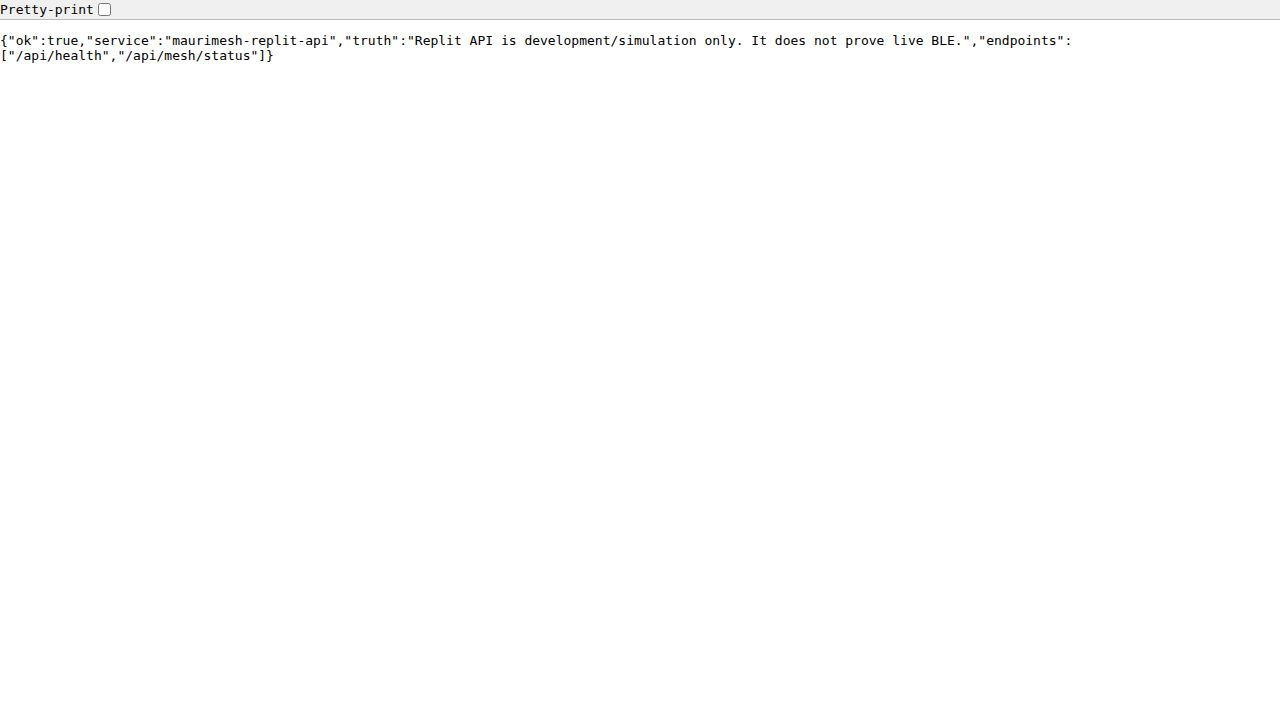
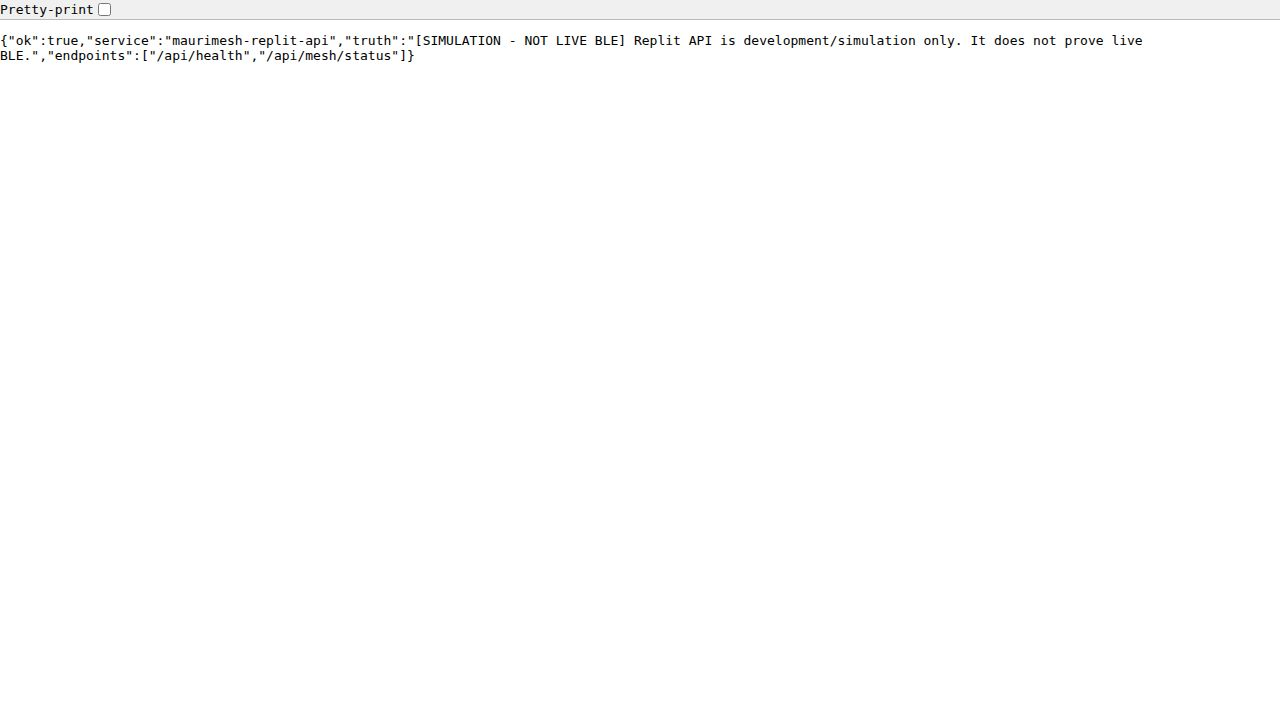
Make routing engine self-healing/traffic thresholds tunable (Task #269)
Original task: the six constants governing self-healing and traffic control
(trust block threshold, quarantine cooldown, rehab trust, congestion window,
congestion penalty per packet, max congestion penalty) were hardcoded. Make
them configurable per engine instance, defaulting to today's values, with
existing tests still green.

Changes (additive, fully backward-compatible):
- types.ts: new RoutingEngineConfig type (6 fields, documented).
- selfGovernanceRoutingEngine.ts: kept original module consts as the source of
  a new exported DEFAULT_ROUTING_CONFIG (Object.freeze'd Readonly so defaults
  can't be mutated process-wide). Constructor takes optional
  Partial<RoutingEngineConfig>, merged over defaults into this.config; all six
  hardcoded usages now read this.config.*; added getConfig() accessor.
- mauriMeshP2PEngine.ts: constructor takes optional config, snapshots it
  ({ ...config }) to avoid retaining the caller's reference, forwards to
  governance, and re-forwards on setLocalNodeId so config survives node-id
  changes.

Tests: +9 in tests/mesh/self-governance-engine.test.ts (defaults preserved,
partial merge, custom threshold blocks after 1 failure vs default does not,
cooldown=0 immediate rehab, P2P forwarding, config survives setLocalNodeId,
external-mutation snapshot immunity, defaults frozen). 20/20 pass; tsc 0.

Code review: addressed architect's only finding (mutable shared default +
caller-reference retention) by freezing defaults and snapshotting input.
[…]

Changed region(s): [[0.0, 0.0306, 0.875, 0.0917]]

diff --git a/tests/mesh/self-governance-engine.test.ts b/tests/mesh/self-governance-engine.test.ts
@@ -1,5 +1,9 @@
 import { describe, it, expect } from "vitest";
-import { SelfGovernanceRoutingEngine } from "../../lib/mauri-mesh-engine/src/selfGovernanceRoutingEngine";
+import {
+  DEFAULT_ROUTING_CONFIG,
+  SelfGovernanceRoutingEngine,
+} from "../../lib/mauri-mesh-engine/src/selfGovernanceRoutingEngine";
+import { MauriMeshP2PEngine } from "../../lib/mauri-mesh-engine/src/mauriMeshP2PEngine";
 
 // These tests exercise the live AI routing engine that powers MauriMesh's
 // relay routing, self-learning, self-healing and traffic-control layers.
@@ -223,5 +227,136 @@ describe("SelfGovernanceRoutingEngine — state lifecycle", () => {
     // A routing decision runs the GC pass; quarantine state must stay clean.
     engine.decideRoute(engine.createPacket({ to: "far", payload: {} }));
     expect(engine.getGovernanceStats().quarantinedPeers).toBe(0);
+  });
+});
+
+describe("SelfGovernanceRoutingEngine — tunable thresholds", () => {
+  it("defaults to today's values when no config is passed", () => {
+    const engine = new SelfGovernanceRoutingEngine("A");
+    expect(engine.getConfig()).toEqual(DEFAULT_ROUTING_CONFIG);
+  });
+
+  it("merges partial overrides over the defaults", () => {
+    const engine = new SelfGovernanceRoutingEngine("A", { rehabTrust: 55 });
+    const config = engine.getConfig();
+    expect(config.rehabTrust).toBe(55);
+    // Untouched fields keep their default values.
+    expect(config.trustBlockThreshold).toBe(DEFAULT_ROUTING_CONFIG.trustBlockThreshold);
+    expect(config.congestionWindowMs).toBe(DEFAULT_ROUTING_CONFIG.congestionWindowMs);
+  });
+
+  it("honours a custom trustBlockThreshold when quarantining a peer", () => {
+    // A high threshold blocks a peer after a single failure, which the default
+    // (25) would not do — proving the configured value drives the behavior.
+    const engine = new SelfGovernanceRoutingEngine("A", { trustBlockThreshold: 65 });
+    engine.upsertPeer({ id: "B", trust: 70, signal: 80, status: "online" });
+
+    engine.applyDeliveryOutcome({
+      packetId: "f1",
+      peerId: "B",
+      ok: false,
+      latencyMs: 500,
+      timestamp: Date.now(),
+    });
+
+    expect(engine.getGovernanceStats().quarantinedPeers).toBe(1);
+  });
+
+  it("does not block on a single failure under the default threshold", () => {
+    const engine = new SelfGovernanceRoutingEngine("A");
+    engine.upsertPeer({ id: "B", trust: 70, signal: 80, status: "online" });
+
+    engine.applyDeliveryOutcome({
+      packetId: "f1",
+      peerId: "B",
+      ok: false,
+      latencyMs: 500,
+      timestamp: Date.now(),
+    });
+
+    expect(engine.getGovernanceStats().quarantinedPeers).toBe(0);
+  });
+
+  it("honours a custom peerBlockCooldownMs so a blocked peer rehabilitates immediately", () => {
+    const engine = new SelfGovernanceRoutingEngine("A", {
+      trustBlockThreshold: 65,
+      peerBlockCooldownMs: 0,
+    });
+    engine.upsertPeer({ id: "B", trust: 70, signal: 80, status: "online" });
+
+    engine.applyDeliveryOutcome({
+      packetId: "f1",
+      peerId: "B",
+      ok: false,
+      latencyMs: 500,
+      timestamp: Date.now(),
+    });
+    expect(engine.getGovernanceStats().quarantinedPeers).toBe(1);
+
+    // Cooldown is 0, so the next routing pass self-heals the peer at once.
+    engine.decideRoute(engine.createPacket({ to: "far", payload: {} }));
+    expect(engine.getGovernanceStats().quarantinedPeers).toBe(0);
+    expect(engine.getGovernanceStats().rehabilitations).toBeGreaterThanOrEqual(1);
+  });
+});
+
+describe("MauriMeshP2PEngine — config forwarding", () => {
+  it("forwards the routing config to its governance engine", () => {
+    const engine = new MauriMeshP2PEngine("A", { trustBlockThreshold: 65 });
+    engine.ingestPeer({ id: "B", trust: 70, signal: 80, status: "online" });
+
+    engine.learn({
+      packetId: "f1",
+      peerId: "B",
+      ok: false,
+      latencyMs: 500,
+      timestamp: Date.now(),
+    });
+
+    // The high threshold (forwarded into governance) blocks after one failure.
+    expect(engine.getSnapshot().governance?.quarantinedPeers).toBe(1);
+  });
+
+  it("preserves the config across setLocalNodeId", () => {
+    const engine = new MauriMeshP2PEngine("A", { trustBlockThreshold: 65 });
+    engine.setLocalNodeId("A2");
+    engine.ingestPeer({ id: "B", trust: 70, signal: 80, status: "online" });
+
+    engine.learn({
+      packetId: "f1",
+      peerId: "B",
+      ok: false,
+      latencyMs: 500,
+      timestamp: Date.now(),
+    });
+
+    expect(engine.getSnapshot().governance?.quarantinedPeers).toBe(1);
+  });
+
+  it("snapshots the passed config so later external mutation cannot leak in", () => {
+    const cfg: Partial<{ trustBlockThreshold: number }> = { trustBlockThreshold: 65 };
+    const engine = new MauriMeshP2PEngine("A", cfg);
+    // Mutate the caller's object AFTER construction. A leaked reference would
+    // drop the threshold to 1, so a single failure (trust 64) would NOT block.
+    cfg.trustBlockThreshold = 1;
+    engine.setLocalNodeId("A2"); // recreates governance from the stored config
+    engine.ingestPeer({ id: "B", trust: 70, signal: 80, status: "online" });
+
+    engine.learn({
+      packetId: "f1",
+      peerId: "B",
+      ok: false,
+      latencyMs: 500,
+      timestamp: Date.now(),
+    });
+
+    // Threshold stayed at the snapshotted 65, so the peer is quarantined.
+    expect(engine.getSnapshot().governance?.quarantinedPeers).toBe(1);
+  });
+});
+
+describe("routing config defaults", () => {
+  it("are frozen so they cannot be mutated process-wide", () => {
+    expect(Object.isFrozen(DEFAULT_ROUTING_CONFIG)).toBe(true);
   });
 });

diff --git a/lib/mauri-mesh-engine/src/selfGovernanceRoutingEngine.ts b/lib/mauri-mesh-engine/src/selfGovernanceRoutingEngine.ts
@@ -5,6 +5,7 @@ import {
   PeerStatus,
   RouteCandidate,
   RouteDecision,
+  RoutingEngineConfig,
   TransportKind,
 } from "./types";
 import { createJumpCode, scoreJumpCompatibility } from "./jumpCodeEngine";
@@ -30,6 +31,20 @@ const CONGESTION_PENALTY_PER_PACKET = 6;
 // Upper bound on the congestion penalty so a strong relay is never fully starved.
 const CONGESTION_MAX_PENALTY = 30;
 
+/**
+ * Default tunable thresholds. Passing nothing (or only some fields) to the
+ * engine reproduces exactly this behavior — these are the values the engine
+ * shipped with before they became configurable.
+ */
+export const DEFAULT_ROUTING_CONFIG: Readonly<RoutingEngineConfig> = Object.freeze({
+  trustBlockThreshold: TRUST_BLOCK_THRESHOLD,
+  peerBlockCooldownMs: PEER_BLOCK_COOLDOWN_MS,
+  rehabTrust: REHAB_TRUST,
+  congestionWindowMs: CONGESTION_WINDOW_MS,
+  congestionPenaltyPerPacket: CONGESTION_PENALTY_PER_PACKET,
+  congestionMaxPenalty: CONGESTION_MAX_PENALTY,
+});
+
 function clamp(value: number, min: number, max: number): number {
   return Math.max(min, Math.min(max, value));
 }
@@ -46,8 +61,15 @@ export class SelfGovernanceRoutingEngine {
   private blockedUntil = new Map<string, number>();
   // Traffic control: peerId -> recent send timestamps within the congestion window.
   private recentSends = new Map<string, number[]>();
+  // Tunable thresholds for the self-healing and traffic-control layers.
+  private readonly config: RoutingEngineConfig;
 
-  constructor(private readonly localNodeId: string) {}
+  constructor(
+    private readonly localNodeId: string,
+    config: Partial<RoutingEngineConfig> = {}
+  ) {
+    this.config = { ...DEFAULT_ROUTING_CONFIG, ...config };
+  }
 
   upsertPeer(
     input: Partial<MeshPeer> & { id: string; label?: string; transport?: TransportKind }
@@ -193,8 +215,8 @@ export class SelfGovernanceRoutingEngine {
           const load = this.peerLoad(peer.id, now);
           if (load > 0) {
             const penalty = Math.min(
-              CONGESTION_MAX_PENALTY,
-              load * CONGESTION_PENALTY_PER_PACKET
+              this.config.congestionMaxPenalty,
+              load * this.config.congestionPenaltyPerPacket
             );
             score = clamp(baseScore - penalty, 0, 100);
             trafficShaped = true;
@@ -282,11 +304,11 @@ export class SelfGovernanceRoutingEngine {
     } else {
       peer.failureCount += 1;
       peer.trust = clamp(peer.trust - 6, 0, 100);
-      if (peer.trust < TRUST_BLOCK_THRESHOLD) {
+      if (peer.trust < this.config.trustBlockThreshold) {
         peer.status = "blocked";
         // Quarantine with a cooldown; the self-healing pass will rehabilitate
         // this peer onto probation once the cooldown elapses.
-        this.blockedUntil.set(peer.id, outcome.timestamp + PEER_BLOCK_COOLDOWN_MS);
+        this.blockedUntil.set(peer.id, outcome.timestamp + this.config.peerBlockCooldownMs);
       } else if (peer.signal < 35) {
         peer.status = "weak";
       }
@@ -308,7 +330,7 @@ export class SelfGovernanceRoutingEngine {
       const until = this.blockedUntil.get(peer.id);
       if (until !== undefined && now < until) continue;
 
-      peer.trust = clamp(Math.max(peer.trust, REHAB_TRUST), 0, 100);
+      peer.trust = clamp(Math.max(peer.trust, this.config.rehabTrust), 0, 100);
       peer.status = peer.signal < 35 ? "weak" : "online";
       peer.routeScore = this.calculateRouteScore(peer);
       this.peers.set(peer.id, peer);
@@ -332,7 +354,7 @@ export class SelfGovernanceRoutingEngine {
         this.recentSends.delete(id);
         continue;
       }
-      const fresh = sends.filter((t) => now - t <= CONGESTION_WINDOW_MS);
+      const fresh = sends.filter((t) => now - t <= this.config.congestionWindowMs);
       if (fresh.length === 0) this.recentSends.delete(id);
       else if (fresh.length !== sends.length) this.recentSends.set(id, fresh);
     }
@@ -355,7 +377,7 @@ export class SelfGovernanceRoutingEngine {
   private peerLoad(peerId: string, now: number): number {
     const sends = this.recentSends.get(peerId);
     if (!sends) return 0;
-    const fresh = sends.filter((t) => now - t <= CONGESTION_WINDOW_MS);
+    const fresh = sends.filter((t) => now - t <= this.config.congestionWindowMs);
     if (fresh.length !== sends.length) {
       if (fresh.length === 0) this.recentSends.delete(peerId);
       else this.recentSends.set(peerId, fresh);
@@ -369,7 +391,7 @@ export class SelfGovernanceRoutingEngine {
     sends.push(now);
     this.recentSends.set(
       peerId,
-      sends.filter((t) => now - t <= CONGESTION_WINDOW_MS)
+      sends.filter((t) => now - t <= this.config.congestionWindowMs)
     );
   }
 
@@ -392,6 +414,11 @@ export class SelfGovernanceRoutingEngine {
       trafficShapedRoutes: this.trafficShapedRoutes,
       quarantinedPeers: this.blockedUntil.size,
     };
+  }
+
+  /** Returns the resolved (defaults merged with overrides) tunable config. */
+  getConfig(): RoutingEngineConfig {
+    return { ...this.config };
   }
 
   private calculateRouteScore(peer: MeshPeer): number {

diff --git a/lib/mauri-mesh-engine/src/types.ts b/lib/mauri-mesh-engine/src/types.ts
@@ -64,6 +64,28 @@ export type MeshPacket = {
   payloadHash?: string;
 };
 
+/**
+ * Tunable thresholds for the self-healing and traffic-control layers of the AI
+ * routing engine. All fields are required here; the engine accepts a
+ * `Partial<RoutingEngineConfig>` and fills any missing field from
+ * `DEFAULT_ROUTING_CONFIG`, so today's behavior is preserved when nothing is
+ * passed. Dense vs. sparse meshes can retune these without editing source.
+ */
+export type RoutingEngineConfig = {
+  /** Trust value below which a peer is quarantined ("blocked"). */
+  trustBlockThreshold: number;
+  /** How long a quarantined peer stays blocked before self-heal rehabilitation. */
+  peerBlockCooldownMs: number;
+  /** Trust a rehabilitated peer is restored to (probation; must re-earn standing). */
+  rehabTrust: number;
+  /** Sliding window over which recent relay load is counted for congestion shaping. */
+  congestionWindowMs: number;
+  /** Score penalty applied per recent packet carried by a relay candidate. */
+  congestionPenaltyPerPacket: number;
+  /** Upper bound on the congestion penalty so a strong relay is never fully starved. */
+  congestionMaxPenalty: number;
+};
+
 export type RouteCandidate = {
   peerId: string;
   transport: TransportKind;

diff --git a/lib/mauri-mesh-engine/src/mauriMeshP2PEngine.ts b/lib/mauri-mesh-engine/src/mauriMeshP2PEngine.ts
@@ -12,6 +12,7 @@ import {
   MeshSnapshot,
   MeshMode,
   MeshPeer,
+  RoutingEngineConfig,
   TransportKind,
 } from "./types";
 
@@ -21,10 +22,14 @@ export class MauriMeshP2PEngine {
   private queue: MeshPacket[] = [];
   private mode: MeshMode = "HYBRID";
   private _localNodeId: string;
+  private readonly config: Partial<RoutingEngineConfig>;
 
-  constructor(localNodeId: string) {
+  constructor(localNodeId: string, config: Partial<RoutingEngineConfig> = {}) {
     this._localNodeId = localNodeId;
-    this.governance = new SelfGovernanceRoutingEngine(localNodeId);
+    // Snapshot the caller's config so later external mutation of the passed
+    // object cannot silently change behavior when governance is recreated.
+    this.config = { ...config };
+    this.governance = new SelfGovernanceRoutingEngine(localNodeId, this.config);
     this.hybrid = new HybridTransportEngine();
 
     this.hybrid.register(createStoreForwardAdapter(this.queue));
@@ -37,7 +42,7 @@ export class MauriMeshP2PEngine {
 
   setLocalNodeId(id: string): void {
     this._localNodeId = id;
-    this.governance = new SelfGovernanceRoutingEngine(id);
+    this.governance = new SelfGovernanceRoutingEngine(id, this.config);
   }
 
   registerTransport(adapter: TransportAdapter): void {

diff --git a/.agents/memory/maurimesh-routing-enhancements.md b/.agents/memory/maurimesh-routing-enhancements.md
@@ -20,5 +20,9 @@ and load-balance.
   or it leaks on peer churn. This was the one issue code review caught.
 - New governance counters are exposed as OPTIONAL snapshot fields so older consumers
   don't break — keep that pattern when adding more.
+- The six thresholds are now injectable via RoutingEngineConfig (defaults in a
+  frozen DEFAULT_ROUTING_CONFIG). When injecting config: freeze the shared default
+  object and snapshot caller-passed config ({ ...config }) so a leaked reference
+  can't mutate behavior process-wide — code review caught both leaks here.
 - Still simulation/dev-grade: real BLE delivery outcomes must feed the learning on
   physical devices for the scores to reflect reality. Nothing here proves live BLE.